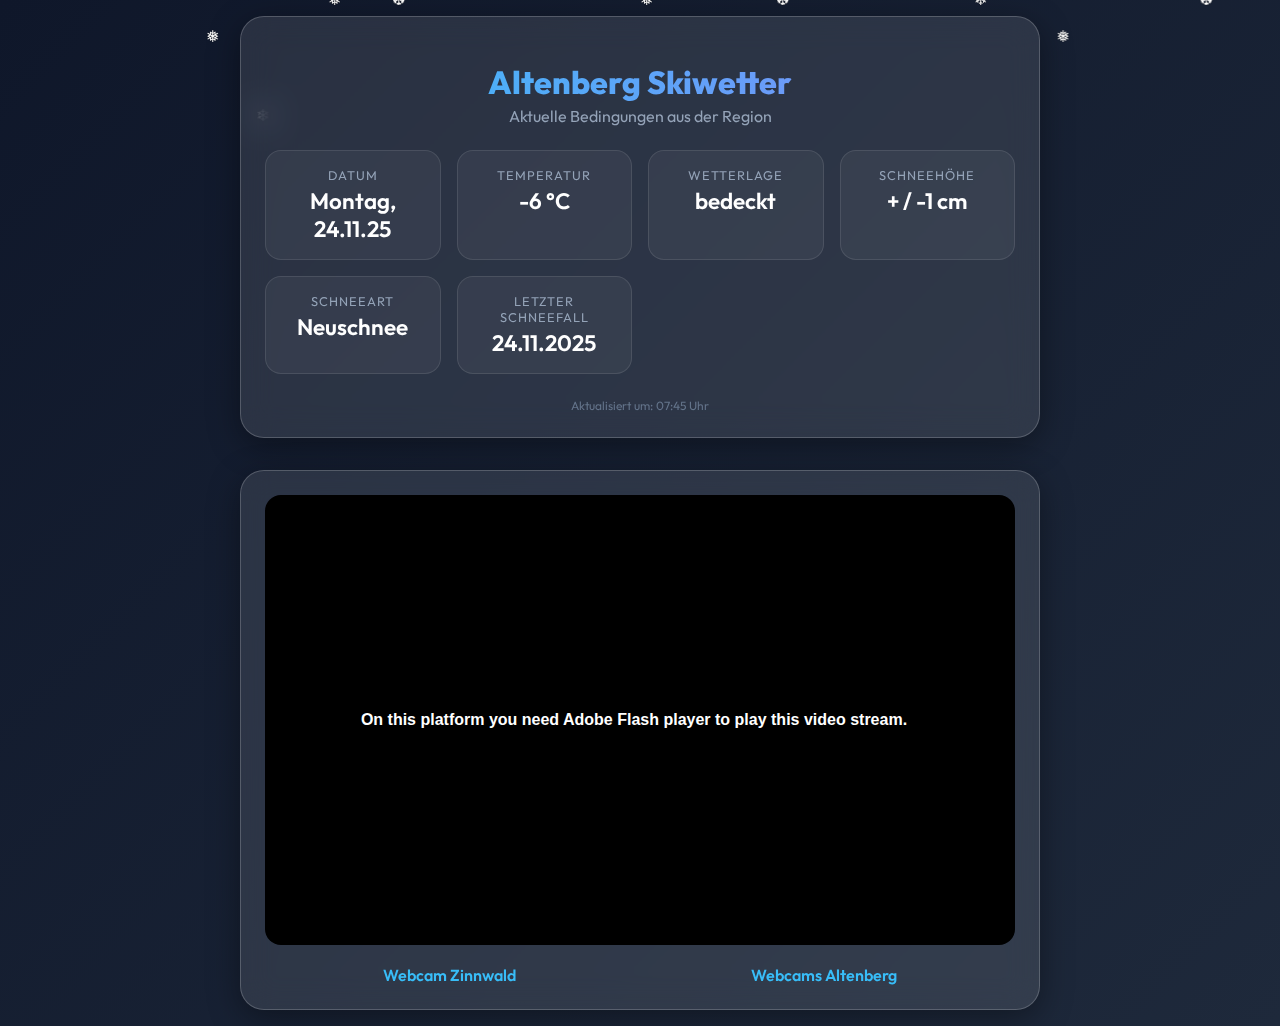
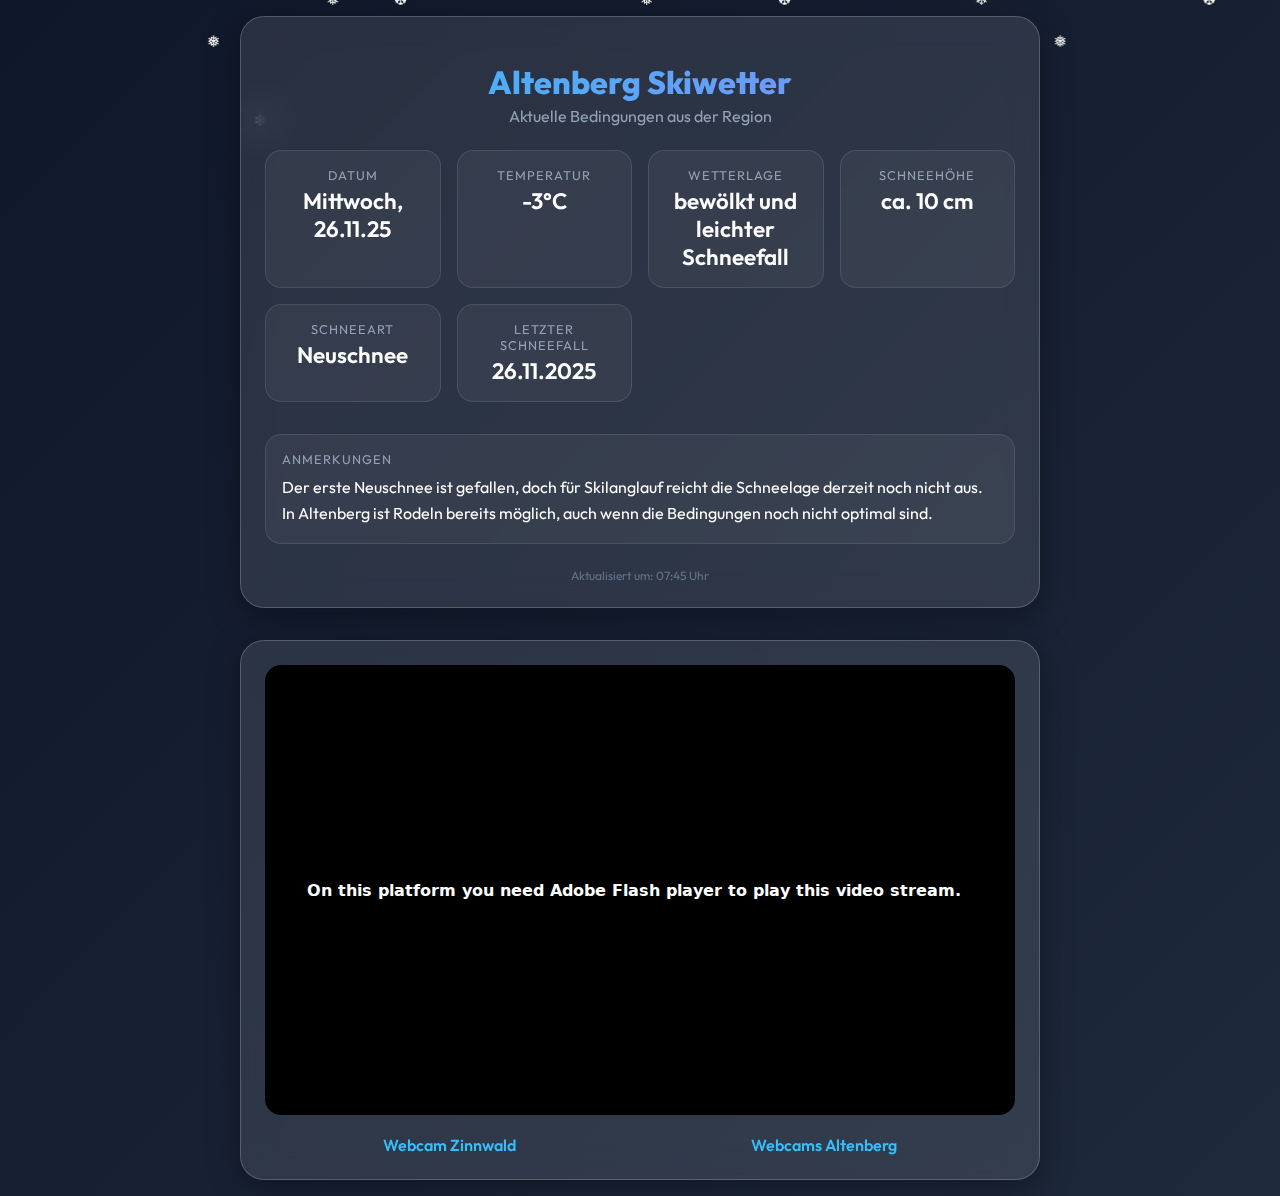
feat: Extract and display supplementary notes from PDF
This commit introduces a new feature to extract a supplementary text paragraph from the daily PDF and display it in a new "Anmerkungen" (Notes) section on both the static and dynamic websites.

The scraper has been updated with a robust method to identify the notes by locating text that appears below the main data tables in the PDF. This approach is resilient to daily changes in the text content.

The web and static frontends have been updated to include a new, full-width "Anmerkungen" section that is conditionally displayed when notes are available. The styling is consistent with the existing dashboard design and is responsive for mobile devices.

Visual tests have been updated to verify the presence and content of the "Anmerkungen" section and to ensure the mobile layout is correct.

diff --git a/docs/index.html b/docs/index.html
@@ -74,6 +74,30 @@
             gap: 1rem;
         }
 
+        .notes-section {
+            grid-column: 1 / -1;
+            /* Span across all columns */
+            margin-top: 1rem;
+            padding: 1rem;
+            background: rgba(255, 255, 255, 0.05);
+            border-radius: 16px;
+            border: 1px solid rgba(255, 255, 255, 0.1);
+        }
+
+        .notes-label {
+            font-size: 0.8rem;
+            color: #94a3b8;
+            text-transform: uppercase;
+            letter-spacing: 1px;
+            margin-bottom: 0.5rem;
+        }
+
+        .notes-text {
+            font-size: 1rem;
+            color: #fff;
+            line-height: 1.6;
+        }
+
         .stat-item {
             background: rgba(255, 255, 255, 0.05);
             padding: 1rem;
@@ -281,6 +305,10 @@
                         <div class="stat-label">Letzter Schneefall</div>
                         <div class="stat-value" id="last_snowfall"></div>
                     </div>
+                <div class="notes-section" id="notes-section" style="display: none;">
+                    <div class="notes-label">Anmerkungen</div>
+                    <div class="notes-text" id="notes-text"></div>
+                </div>
                 </div>
                 <div class="footer">
                     Aktualisiert um: <span id="update_time"></span>
@@ -336,6 +364,13 @@
             document.getElementById('snow_type').textContent = data.snow_type;
             document.getElementById('last_snowfall').textContent = data.last_snowfall;
             document.getElementById('update_time').textContent = data.update_time;
+
+            if (data.notes) {
+                const notesSection = document.getElementById('notes-section');
+                const notesText = document.getElementById('notes-text');
+                notesText.textContent = data.notes;
+                notesSection.style.display = 'block';
+            }
         }
 
         function showError(message) {

diff --git a/web/templates/index.html b/web/templates/index.html
@@ -73,6 +73,30 @@
             gap: 1rem;
         }
 
+        .notes-section {
+            grid-column: 1 / -1;
+            /* Span across all columns */
+            margin-top: 1rem;
+            padding: 1rem;
+            background: rgba(255, 255, 255, 0.05);
+            border-radius: 16px;
+            border: 1px solid rgba(255, 255, 255, 0.1);
+        }
+
+        .notes-label {
+            font-size: 0.8rem;
+            color: #94a3b8;
+            text-transform: uppercase;
+            letter-spacing: 1px;
+            margin-bottom: 0.5rem;
+        }
+
+        .notes-text {
+            font-size: 1rem;
+            color: #fff;
+            line-height: 1.6;
+        }
+
         .stat-item {
             background: rgba(255, 255, 255, 0.05);
             padding: 1rem;
@@ -284,6 +308,12 @@
                     <div class="stat-label">Letzter Schneefall</div>
                     <div class="stat-value">{{ weather.last_snowfall }}</div>
                 </div>
+                {% if weather.notes %}
+                <div class="notes-section">
+                    <div class="notes-label">Anmerkungen</div>
+                    <div class="notes-text">{{ weather.notes }}</div>
+                </div>
+                {% endif %}
             </div>
             <div class="footer">
                 Aktualisiert um: {{ weather.update_time }}

diff --git a/scraper/scraper.py b/scraper/scraper.py
@@ -2,6 +2,7 @@ import io
 import json
 import logging
 import os
+import re
 import shutil
 import sys
 from datetime import datetime
@@ -185,7 +186,7 @@ class SkiWeatherScraper:
                 logger.warning(f"Could not parse date: {original_date_str}")
                 return None
 
-    def _extract_from_cell(self, cell: str, idx: int, row: list[str | None], data: dict[str, str]) -> None:  # noqa: PLR0912, PLR0915
+    def _extract_from_cell(self, cell: str, idx: int, row: list[str | None], data: dict[str, str | None]) -> None:  # noqa: PLR0912, PLR0915
         """Helper to extract data from a single cell."""
         if "TAGES-NEWS" in cell:
             raw_date = cell.replace("TAGES-NEWS - ", "").strip()
@@ -259,7 +260,7 @@ class SkiWeatherScraper:
                 if len(parts) > 1:
                     data["last_snowfall"] = parts[1].strip()
 
-    def extract_weather_data(self, pdf_file: io.BytesIO) -> dict[str, str] | None:
+    def extract_weather_data(self, pdf_file: io.BytesIO) -> dict[str, str | None] | None:
         """Extracts weather data from the PDF file.
 
         Args:
@@ -278,7 +279,7 @@ class SkiWeatherScraper:
                 page = pdf.pages[0]
                 tables = page.extract_tables()
 
-                data: dict[str, str] = {
+                data: dict[str, str | None] = {
                     "date": "Unknown",
                     "temperature": "Unknown",
                     "weather_condition": "Unknown",
@@ -286,6 +287,7 @@ class SkiWeatherScraper:
                     "snow_type": "Unknown",
                     "last_snowfall": "Unknown",
                     "update_time": "Unknown",
+                    "notes": None,
                 }
 
                 for table in tables:
@@ -295,13 +297,28 @@ class SkiWeatherScraper:
                                 continue
                             self._extract_from_cell(cell, idx, row, data)
 
+                # Find the bounding box of the tables to locate text below them
+                if tables:
+                    # Get the bounding box of the last table
+                    last_table_bbox = page.find_tables()[-1].bbox
+                    max_y = last_table_bbox[3]
+
+                    # Extract words that are below the tables
+                    words_below = [
+                        word["text"]
+                        for word in page.extract_words()
+                        if word["top"] > max_y
+                    ]
+                    if words_below:
+                        data["notes"] = " ".join(words_below)
+
                 logger.info(f"Extracted data: {data}")
                 return data
         except Exception as e:
             logger.error(f"Error extracting data: {e}")
             return None
 
-    def save_data(self, data: dict[str, str]) -> None:
+    def save_data(self, data: dict[str, str | None]) -> None:
         """Saves the weather data to a JSON file.
 
         Args:

diff --git a/tests/visual_test.py b/tests/visual_test.py
@@ -14,7 +14,7 @@ def test_ski_weather_dashboard():
     with sync_playwright() as p:
         if browser_path:
             print(f"Launching browser from: {browser_path}")
-            browser = p.chromium.launch(executable_path=browser_path, headless=False)
+            browser = p.chromium.launch(executable_path=browser_path, headless=True)
         else:
             print("Launching bundled Chromium")
             browser = p.chromium.launch(headless=True)
@@ -44,6 +44,13 @@ def test_ski_weather_dashboard():
             header_text = page.inner_text("h1")
             assert "Altenberg Skiwetter" in header_text
 
+            # Verify that the notes section is visible and contains the correct text
+            notes_section = page.wait_for_selector(".notes-section", timeout=5000)
+            assert notes_section.is_visible()
+            notes_text = notes_section.inner_text()
+            assert "anmerkungen" in notes_text.lower()
+            assert "Der erste Neuschnee" in notes_text
+
             # Take a screenshot
             os.makedirs("screenshots", exist_ok=True)
             page.screenshot(path="screenshots/dashboard.png", full_page=True)
@@ -56,6 +63,47 @@ def test_ski_weather_dashboard():
             browser.close()
 
 
+def test_mobile_layout():
+    # Get browser path from environment variable or default to None (Playwright's bundled Chromium)
+    browser_path = os.environ.get("BROWSER_PATH")
+
+    with sync_playwright() as p:
+        if browser_path:
+            print(f"Launching browser from: {browser_path}")
+            browser = p.chromium.launch(executable_path=browser_path, headless=False)
+        else:
+            print("Launching bundled Chromium")
+            browser = p.chromium.launch(headless=True)
+
+        page = browser.new_page()
+
+        # Set mobile viewport
+        page.set_viewport_size({"width": 375, "height": 667})
+
+        # Navigate to the app
+        try:
+            page.goto("http://localhost:8000", wait_until="networkidle")
+
+            # Wait for the date element to be updated by the script
+            page.wait_for_selector("#date-value", timeout=5000)
+
+            # Verify that the notes section is visible
+            notes_section = page.wait_for_selector(".notes-section", timeout=5000)
+            assert notes_section.is_visible()
+
+            # Take a screenshot
+            os.makedirs("screenshots", exist_ok=True)
+            page.screenshot(path="screenshots/dashboard-mobile.png", full_page=True)
+            print("Screenshot saved to screenshots/dashboard-mobile.png")
+
+        except Exception as e:
+            print(f"Mobile test failed: {e}")
+            raise e
+        finally:
+            browser.close()
+
+
 if __name__ == "__main__":
     # Simple wrapper to run without pytest if needed
     test_ski_weather_dashboard()
+    test_mobile_layout()
